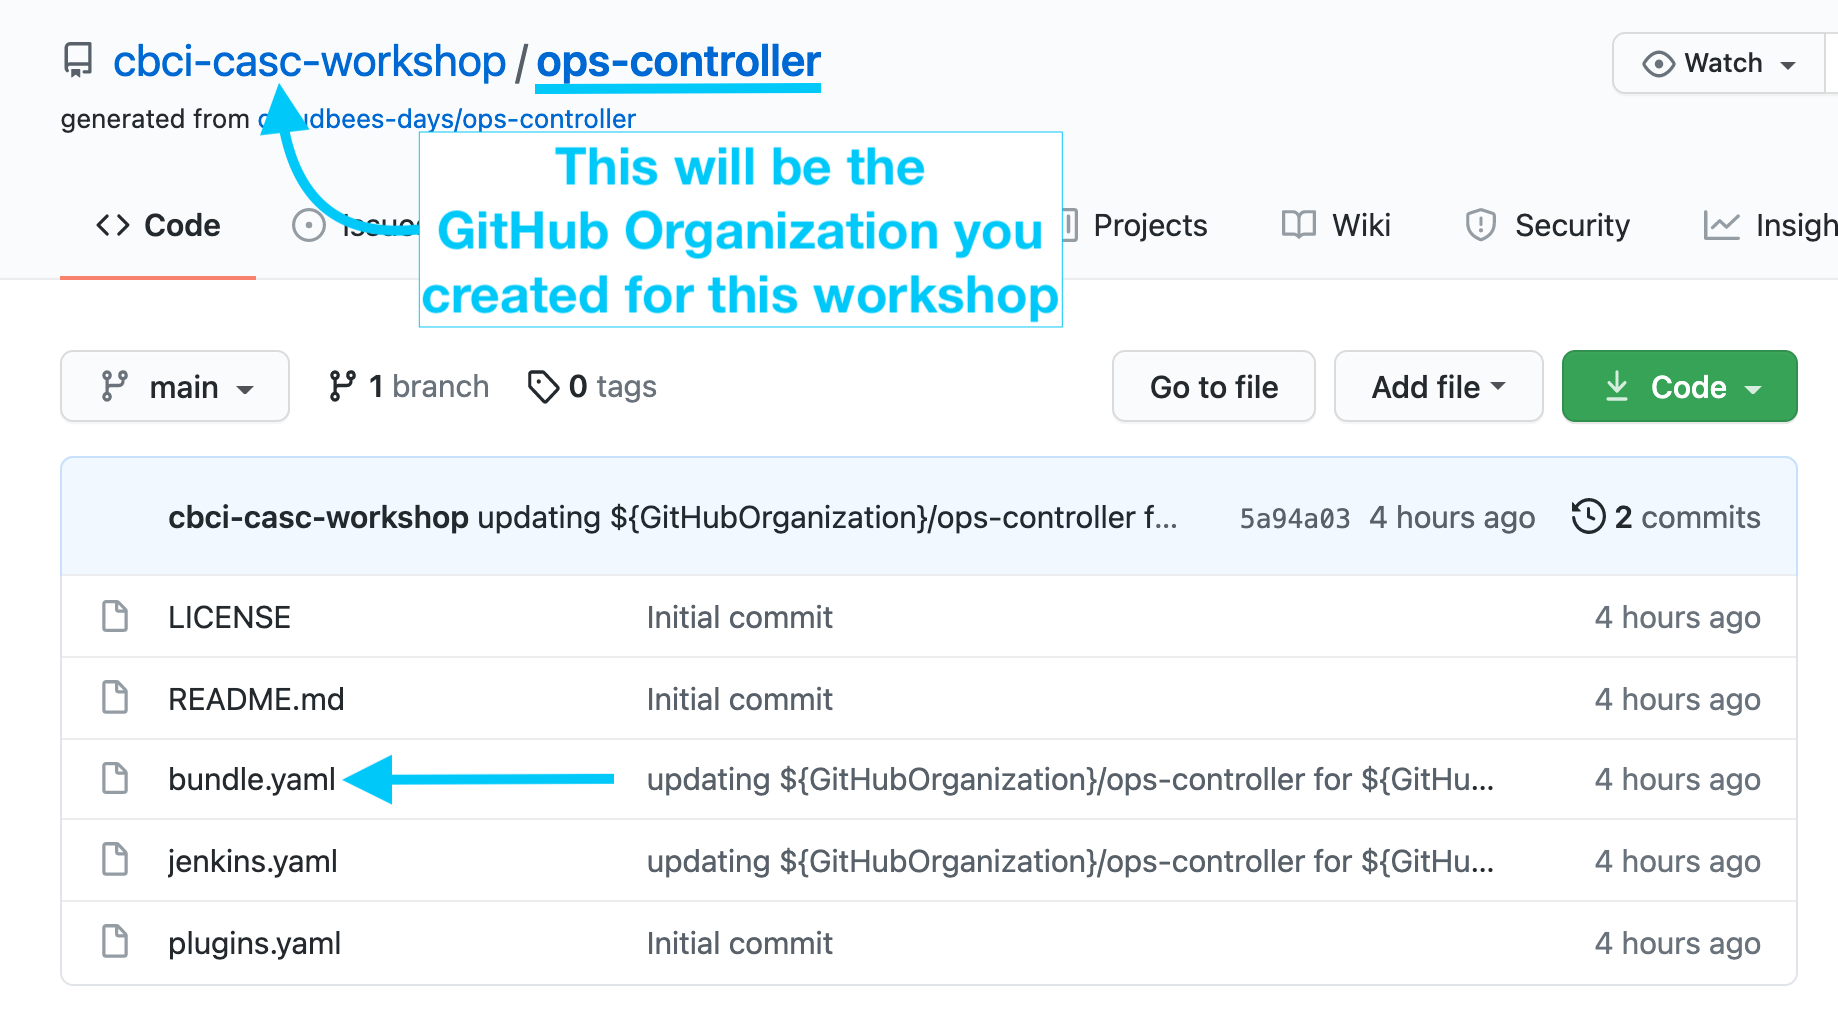
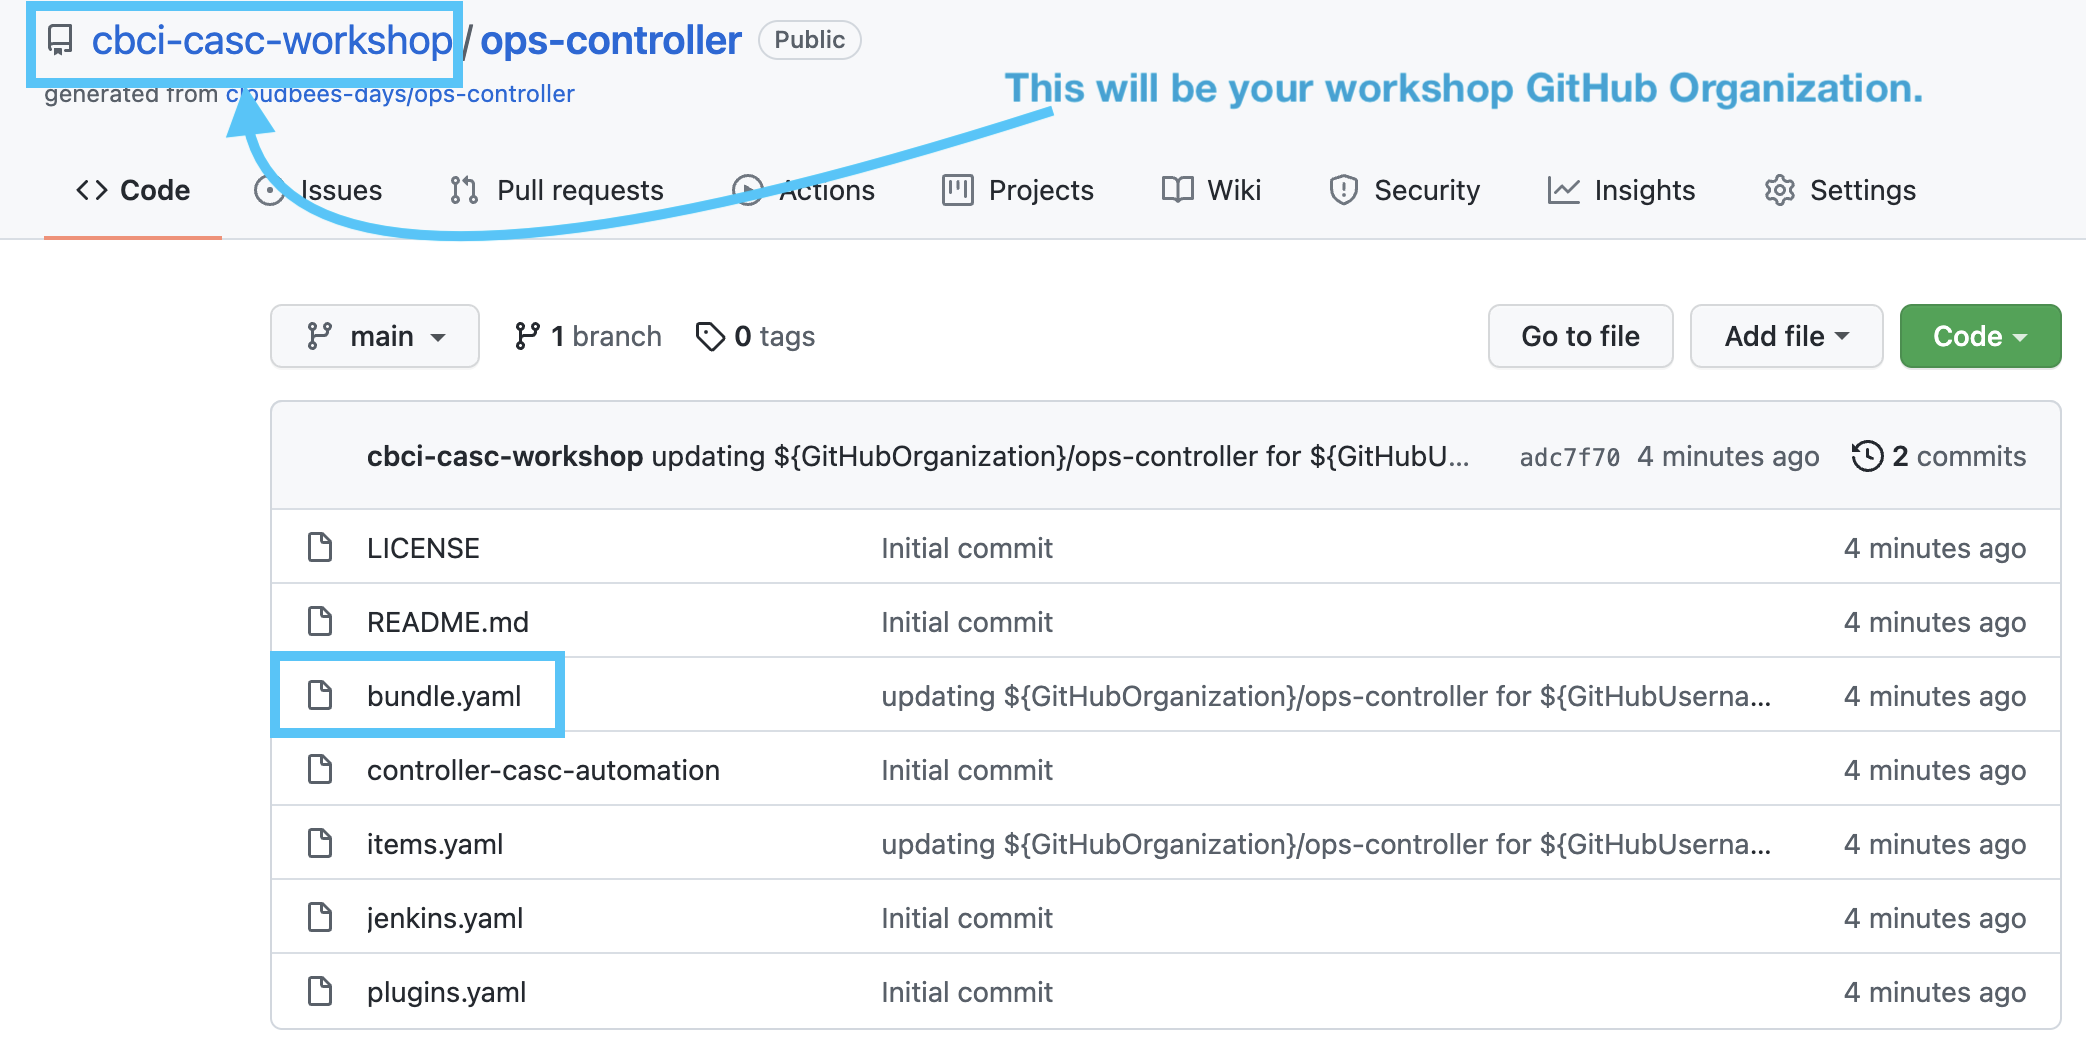
adding items

diff --git a/labs/cloudbees-ci-casc/content/labs/bundle-composition.md b/labs/cloudbees-ci-casc/content/labs/bundle-composition.md
@@ -56,7 +56,7 @@ jenkins:
       - key: GITHUB_REPOSITORY
         value: ops-controller
   quietPeriod: 0
-  systemMessage: 'Jenkins configured using CloudBees CI CasC'
+  systemMessage: 'Jenkins configured using CloudBees CI CasC v1'
 unclassified:
   hibernationConfiguration:
     activities:
@@ -135,7 +135,7 @@ plugins:
 - id: workflow-cps-checkpoint
 # non-cap plugins
 ```
-6. Finally, return to the top level of your `ops-controller` repository and click on the `items.yaml` file. The name of this file must match the file name listed under `items` in the `bundle.yaml` file. Its contents will match the following (except for the `REPLACE_GITHUB_ORG` placeholders):
+6. Finally, return to the top level of your `ops-controller` repository and click on the `items.yaml` file. The name of this file must match the file name listed under `items` in the `bundle.yaml` file. Its contents will match the following (except for the `REPLACE_GITHUB_ORG` placeholders). Also note the `removeStrategy` configuration at the top, this specifies the strategy to handle existing configuration when a new configuration is applied, and is required for all `items` files (`NONE` is currently the only strategy available for `items`):
 
 ```yml
 removeStrategy:
@@ -155,22 +155,15 @@ items:
         daysToKeep: -1
         numToKeep: -1
     SCMSources:
+    navigators:
     - github:
         apiUri: https://api.github.com
         traits:
         - gitHubBranchDiscovery:
             strategyId: 1
         - headWildcardFilter:
+            excludes: ''
             includes: main
-        repoOwner: REPLACE_GITHUB_ORG
-        credentialsId: cloudbees-ci-casc-workshop-github-app
-        id: org.jenkinsci.plugins.github_branch_source.GitHubSCMNavigator::https://api.github.com::REPLACE_GITHUB_ORG::ops-controller
-        repository: ops-controller
-        configuredByUrl: false
-        repositoryUrl: https://github.com/REPLACE_GITHUB_ORG/ops-controller
-    navigators:
-    - github:
-        apiUri: https://api.github.com
         repoOwner: REPLACE_GITHUB_ORG
         credentialsId: cloudbees-ci-casc-workshop-github-app
     projectFactories:
